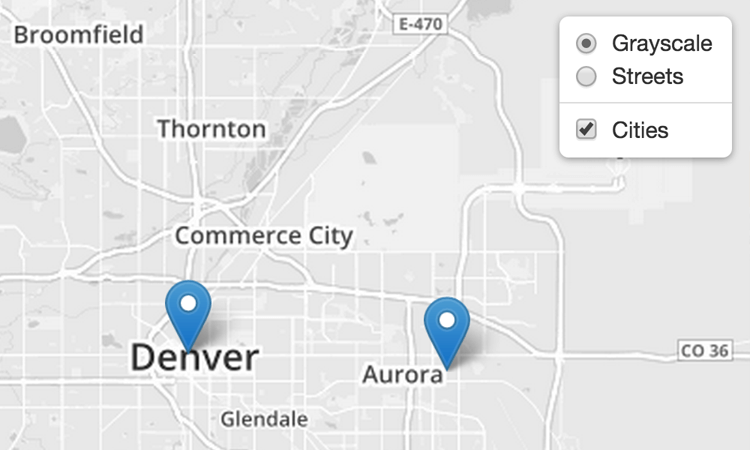
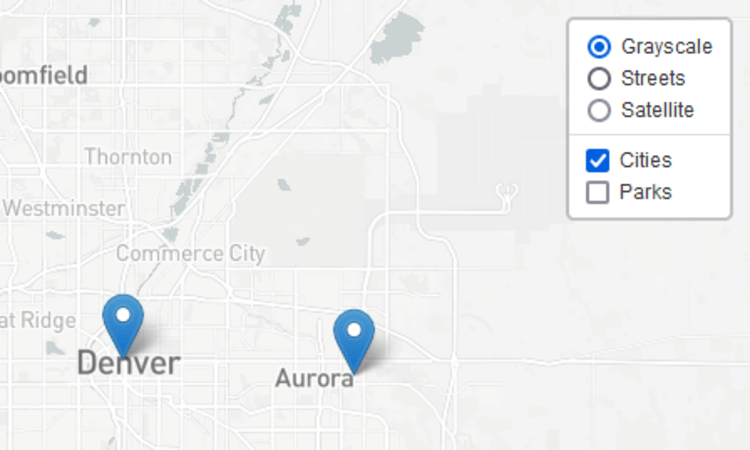
Extend Layers Control tutorial how to add layers dynamically (#8067)
* Add base layer and overlay dynamically

Add example to add dynamically a base layer and an overlay in Layers Control

* Add base layer and overlay dynamically

Update the example code to match the addition in index.md
Add a base layer and an overlay dynamically to a Layers Control

* Update docs/SlavaUkraini/examples/layers-control/example.md

* Update docs/SlavaUkraini/examples/layers-control/index.md

* Update thumbnail to match new example

* fix rename controlLayer to layerControl

* Fix rename controlLayer into layerControl

* Add files via upload

* Fix thumbnail size and zoom

* Compress thumbnail

diff --git a/docs/SlavaUkraini/examples/layers-control/index.md b/docs/SlavaUkraini/examples/layers-control/index.md
@@ -54,19 +54,32 @@ var overlayMaps = {
 
 Now, all that's left to do is to create a [Layers Control](/reference.html#control-layers) and add it to the map. The first argument passed when creating the layers control is the base layers object. The second argument is the overlays object. Both arguments are optional: you can pass just a base layers object by omitting the second argument, or just an overlays objects by passing `null` as the first argument. In each case, the omitted layer type will not appear for the user to select.
 
-<pre><code>L.control.layers(baseMaps, overlayMaps).addTo(map);</code></pre>
+<pre><code>var layerControl = L.control.layers(baseMaps, overlayMaps).addTo(map);</code></pre>
 
 Note that we added `grayscale` and `cities` layers to the map but didn't add `streets`. The layers control is smart enough to detect what layers we've already added and have corresponding checkboxes and radioboxes set.
 
 Also note that when using multiple base layers, only one of them should be added to the map at instantiation, but all of them should be present in the base layers object when creating the layers control.
 
-Finally, you can style the keys when you define the objects for the layers. For example, this code will make the label for the grayscale map gray:
+You can also style the keys when you define the objects for the layers. For example, this code will make the label for the grayscale map gray:
 
 <pre><code>var baseMaps = {
 	"&lt;span style='color: gray'&gt;Grayscale&lt;/span&gt;": grayscale,
 	"Streets": streets
 };
 </code></pre>
+
+Finally, you can add or remove base layers or overlays dynamically:
+
+<pre><code>var crownHill = L.marker([39.75, -105.09]).bindPopup('This is Crown Hill Park.'),
+    rubyHill = L.marker([39.68, -105.00]).bindPopup('This is Ruby Hill Park.');
+    
+var parks = L.layerGroup([crownHill, rubyHill]);
+var satellite = L.tileLayer(mapboxUrl, {id: '<a href="https://mapbox.com">MapID</a>', tileSize: 512, zoomOffset: -1, attribution: mapboxAttribution});
+
+layerControl.addBaseLayer(satellite, "Satellite");
+layerControl.addOverlay(parks, "Parks");
+</code></pre>
+
 
 Now let's [view the result on a separate page &rarr;](example.html)
 

diff --git a/docs/SlavaUkraini/examples/layers-control/example.md b/docs/SlavaUkraini/examples/layers-control/example.md
@@ -32,4 +32,12 @@ title: Layers Control Tutorial
 	};
 
 	var layerControl = L.control.layers(baseLayers, overlays).addTo(map);
+	var crownHill = L.marker([39.75, -105.09]).bindPopup('This is Crown Hill Park.'),
+	    rubyHill = L.marker([39.68, -105.00]).bindPopup('This is Ruby Hill Park.');
+
+	var parks = L.layerGroup([crownHill, rubyHill]);
+
+	var satellite = L.tileLayer(mbUrl, {id: 'mapbox/satellite-v9', tileSize: 512, zoomOffset: -1, attribution: mbAttr});
+	layerControl.addBaseLayer(satellite, "Satellite");
+	layerControl.addOverlay(parks, "Parks");
 </script>
